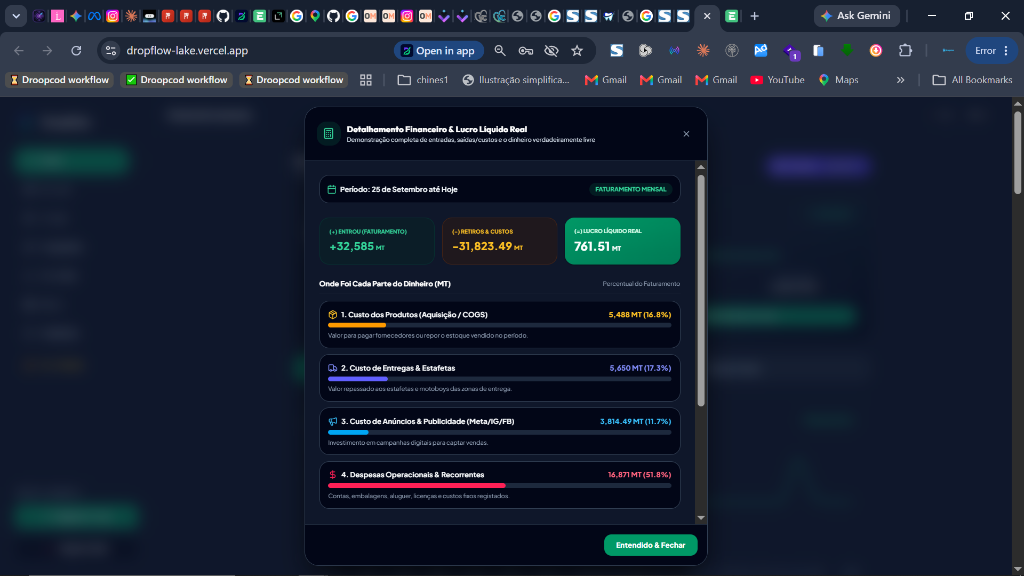
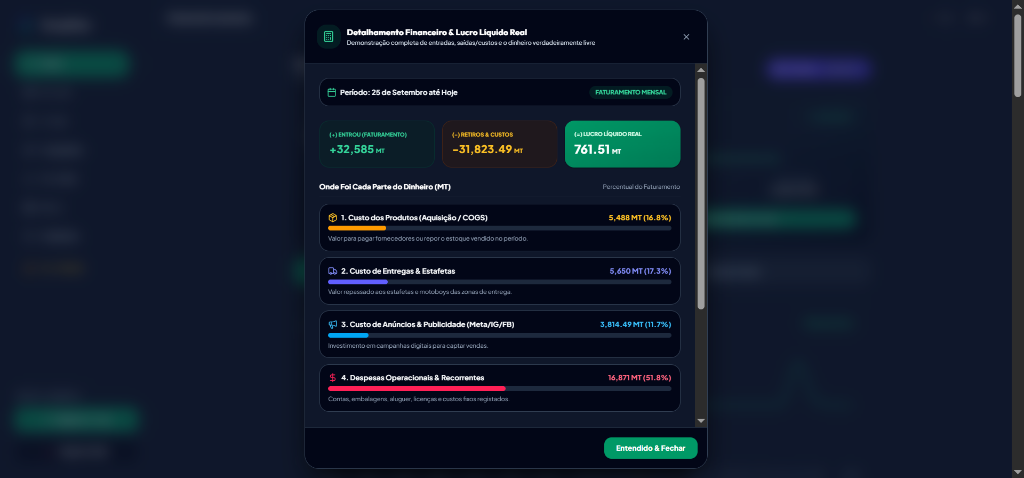
fix: todas as imagens recortadas sem barra de navegador e secoes alinhadas com produtos e adicao de venda

diff --git a/src/components/LandingPageView.tsx b/src/components/LandingPageView.tsx
@@ -1092,9 +1092,56 @@ export default function LandingPageView({ onOpenAuth, paywallUser, onCheckPaymen
           </div>
         </div>
 
-        {/* 5. Saldos Unificados de Carteiras (M-Pesa, e-Mola e Bancos) */}
-        <div className="grid grid-cols-1 lg:grid-cols-12 gap-8 items-center mb-10">
+        {/* 5. Registo Inteligente de Venda com Alocação para Metas */}
+        <div className="grid grid-cols-1 lg:grid-cols-12 gap-8 items-center mb-20">
           <div className="lg:col-span-5 space-y-4 text-left">
+            <div className="inline-flex items-center gap-1.5 px-3 py-1 rounded-xl bg-emerald-500/10 text-emerald-400 text-xs font-bold border border-emerald-500/20">
+              <Plus className="w-3.5 h-3.5" /> Entrada Rápida de Pedidos
+            </div>
+            <h3 className="text-2xl sm:text-3xl font-black text-white font-display">
+              Registo Inteligente de Venda com Alocação para Metas
+            </h3>
+            <p className="text-sm text-slate-300 leading-relaxed">
+              Cada venda no DroopFlow faz muito mais do que somar faturamento. No momento do registo:
+            </p>
+            <ul className="space-y-2 text-xs text-slate-300 font-medium">
+              <li className="flex items-center gap-2">
+                <CheckCircle2 className="w-4 h-4 text-emerald-400 shrink-0" />
+                <span>Escolhe o método de recebimento (M-Pesa ou e-Mola) e a zona com motoboy.</span>
+              </li>
+              <li className="flex items-center gap-2">
+                <CheckCircle2 className="w-4 h-4 text-emerald-400 shrink-0" />
+                <span><strong>Alocar para Meta:</strong> Reserva na hora uma fatia do pedido para a Meta Diária, Semanal ou Mensal.</span>
+              </li>
+              <li className="flex items-center gap-2">
+                <CheckCircle2 className="w-4 h-4 text-emerald-400 shrink-0" />
+                <span>Resumo visual imediato de quanto foi para o Fornecedor e quanto sobrou de Lucro Limpo.</span>
+              </li>
+            </ul>
+          </div>
+          <div className="lg:col-span-7">
+            <div className="rounded-2xl border border-white/10 bg-slate-900/80 p-2 shadow-2xl hover:border-emerald-500/40 transition-all">
+              <img 
+                src="/assets/screenshots/modal-registar-venda.png" 
+                alt="Registo Inteligente de Venda DroopFlow" 
+                className="w-full h-auto rounded-xl object-cover"
+              />
+            </div>
+          </div>
+        </div>
+
+        {/* 6. Saldos Unificados de Carteiras (M-Pesa, e-Mola e Bancos) */}
+        <div className="grid grid-cols-1 lg:grid-cols-12 gap-8 items-center mb-20">
+          <div className="lg:col-span-7 order-2 lg:order-1">
+            <div className="rounded-2xl border border-white/10 bg-slate-900/80 p-2 shadow-2xl hover:border-teal-500/40 transition-all">
+              <img 
+                src="/assets/screenshots/saldos-carteiras-bancos.png" 
+                alt="Saldos de Carteiras e Bancos DroopFlow" 
+                className="w-full h-auto rounded-xl object-cover"
+              />
+            </div>
+          </div>
+          <div className="lg:col-span-5 order-1 lg:order-2 space-y-4 text-left">
             <div className="inline-flex items-center gap-1.5 px-3 py-1 rounded-xl bg-teal-500/10 text-teal-400 text-xs font-bold border border-teal-500/20">
               <Wallet className="w-3.5 h-3.5" /> Conexão Financeira Real
             </div>
@@ -1119,11 +1166,40 @@ export default function LandingPageView({ onOpenAuth, paywallUser, onCheckPaymen
               </li>
             </ul>
           </div>
+        </div>
+
+        {/* 7. Gestão de Saídas Operacionais & Ferramentas */}
+        <div className="grid grid-cols-1 lg:grid-cols-12 gap-8 items-center mb-10">
+          <div className="lg:col-span-5 space-y-4 text-left">
+            <div className="inline-flex items-center gap-1.5 px-3 py-1 rounded-xl bg-rose-500/10 text-rose-400 text-xs font-bold border border-rose-500/20">
+              <ArrowDownRight className="w-3.5 h-3.5" /> Controle de Custos
+            </div>
+            <h3 className="text-2xl sm:text-3xl font-black text-white font-display">
+              Gestão de Saídas Operacionais com Estorno Automático
+            </h3>
+            <p className="text-sm text-slate-300 leading-relaxed">
+              Tem o registo minucioso de onde o dinheiro da empresa está saindo, com categorização completa:
+            </p>
+            <ul className="space-y-2 text-xs text-slate-300 font-medium">
+              <li className="flex items-center gap-2">
+                <CheckCircle2 className="w-4 h-4 text-rose-400 shrink-0" />
+                <span>Controle de assinaturas de IA e ferramentas (Claude, ElevenLabs, CapCut).</span>
+              </li>
+              <li className="flex items-center gap-2">
+                <CheckCircle2 className="w-4 h-4 text-rose-400 shrink-0" />
+                <span>Dedução precisa da caixinha (Pocket) e carteira móvel correspondente.</span>
+              </li>
+              <li className="flex items-center gap-2">
+                <CheckCircle2 className="w-4 h-4 text-rose-400 shrink-0" />
+                <span>Estorno com 1 clique se a compra for cancelada ou digitada com erro.</span>
+              </li>
+            </ul>
+          </div>
           <div className="lg:col-span-7">
-            <div className="rounded-2xl border border-white/10 bg-slate-900/80 p-2 shadow-2xl hover:border-teal-500/40 transition-all">
+            <div className="rounded-2xl border border-white/10 bg-slate-900/80 p-2 shadow-2xl hover:border-rose-500/40 transition-all">
               <img 
-                src="/assets/screenshots/saldos-carteiras-bancos.png" 
-                alt="Saldos de Carteiras e Bancos DroopFlow" 
+                src="/assets/screenshots/lista-saidas-despesas.png" 
+                alt="Lista de Saídas e Despesas DroopFlow" 
                 className="w-full h-auto rounded-xl object-cover"
               />
             </div>

diff --git a/public/sw.js b/public/sw.js
@@ -3,7 +3,7 @@
  * SPDX-License-Identifier: Apache-2.0
  */
 
-const CACHE_NAME = 'droopflow-cache-v9-pro-showcase';
+const CACHE_NAME = 'droopflow-cache-v10-clean-crops';
 const ASSETS = [
   '/',
   '/index.html',
